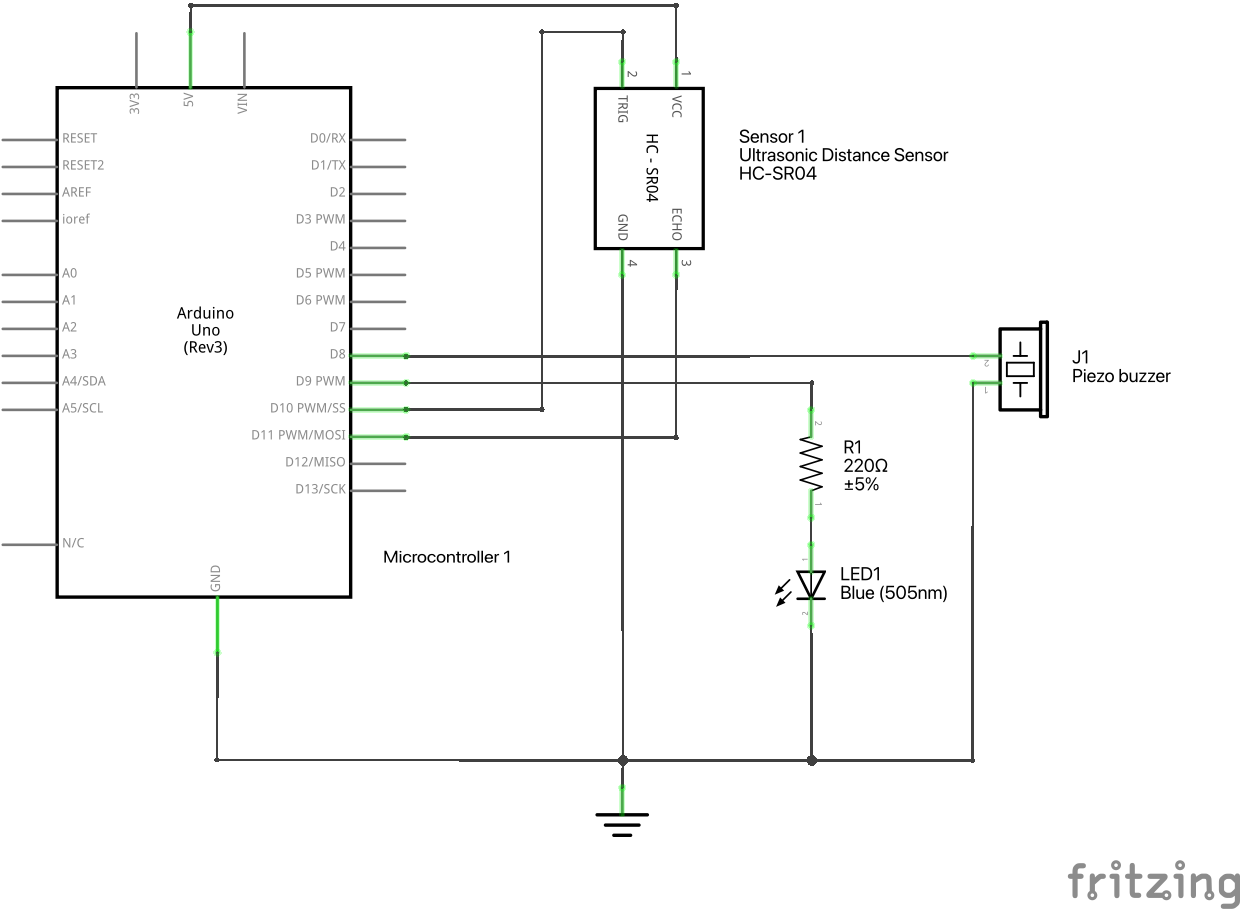
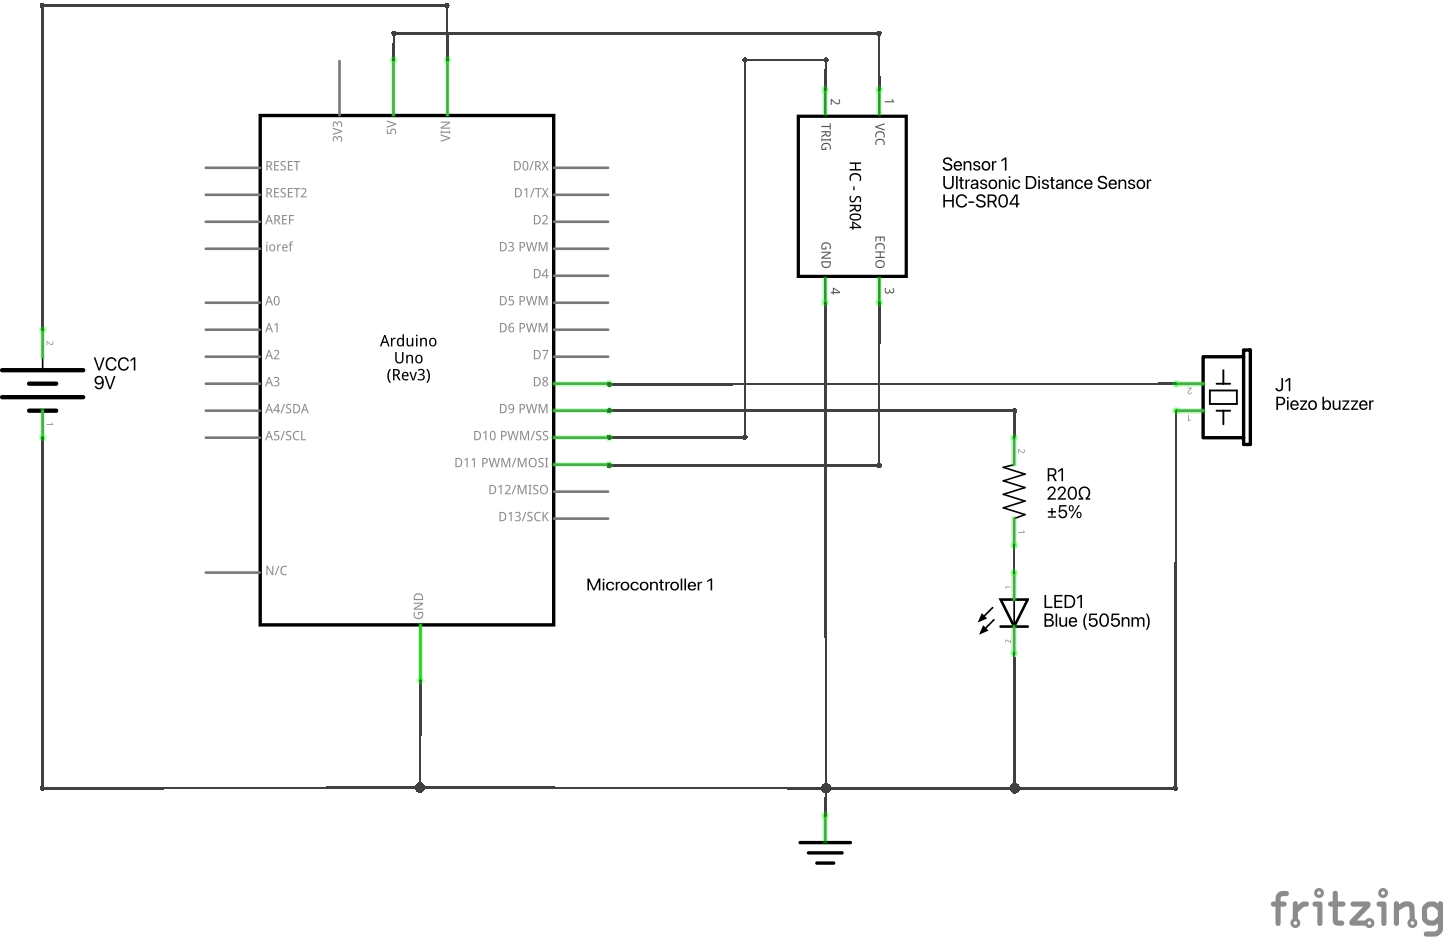
Update documentation

Changed region(s): [[0.0, 0.0, 0.95, 0.9241], [0.8581, 0.9241, 1.0, 1.0], [0.0306, 0.0, 0.1839, 0.0308]]

diff --git a/DistanceSensorGate/README.md b/DistanceSensorGate/README.md
@@ -49,7 +49,7 @@ and upload the program to your Arduino.
 
 ## Circuit Diagram
 ### **Breadboard Layout**  
-📌 *The ultrasonic sensor plugs into the board and points away from the Arduino (towards the top of the screen, not into the screen as depicted).*  
+📌 *The ultrasonic sensor plugs into the board and points away from the Arduino (towards the top of the screen, not into the screen as depicted). Also, the 9V battery should preferably plug into the barrel jack, not into the VIN pin. Or, you can power the system with USB-C.*  
 ![Breadboard Layout](DistanceSensorGate_bb.png)
 
 ### **Schematic**
